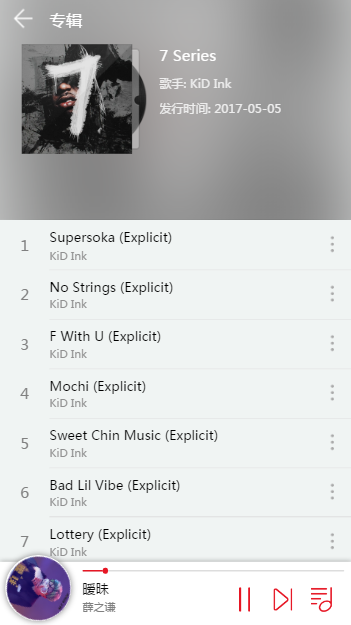
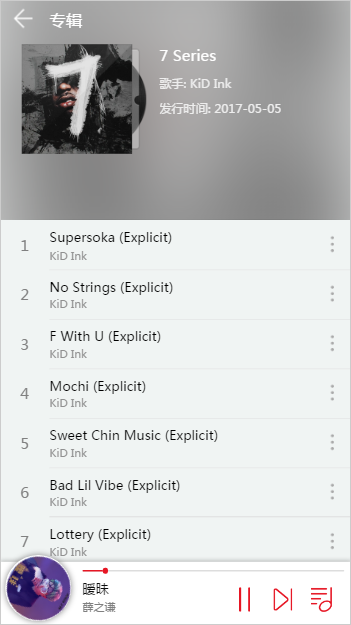
no message

Changed region(s): [[0.9972, 0.2128, 1.0, 1.0], [0.9972, 0.0, 1.0, 0.1216], [0.0, 0.9728, 0.0285, 1.0]]

diff --git a/src/views/css/searchList.css b/src/views/css/searchList.css
@@ -1,8 +1,11 @@
 .search-list {
   position: absolute;
   top: 0;
+  bottom: 0;
+  width: 6.4rem;
   z-index: 5;
-  background: #f0f4f3; }
+  background: #f0f4f3;
+  box-shadow: 0 0 0.15rem #888; }
   .search-list .title-bar {
     height: 0.8rem;
     background: #e61624;

diff --git a/src/views/css/searchList.scss b/src/views/css/searchList.scss
@@ -4,8 +4,11 @@
   $hei: 0.8rem;
   position: absolute;
   top: 0;
+  bottom: 0;
+  width: $pageWidth;
   z-index: 5;
   background: $bgColor;
+  box-shadow: 0 0 0.15rem #888;
   .title-bar {
     height: $hei;
     background: $mainColor;
